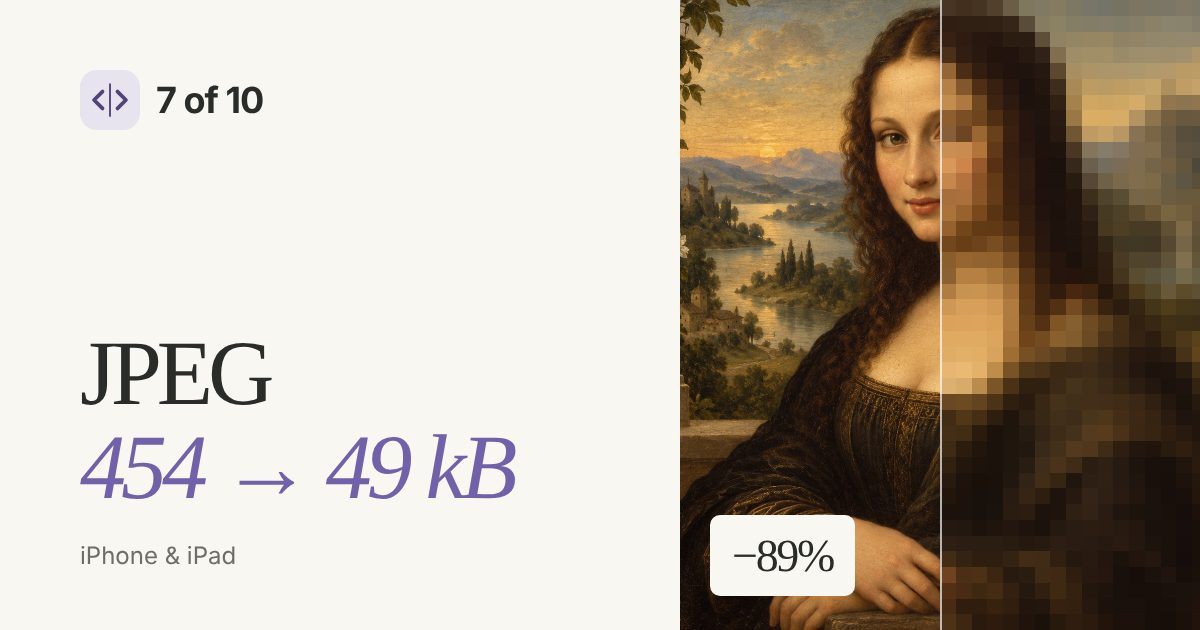
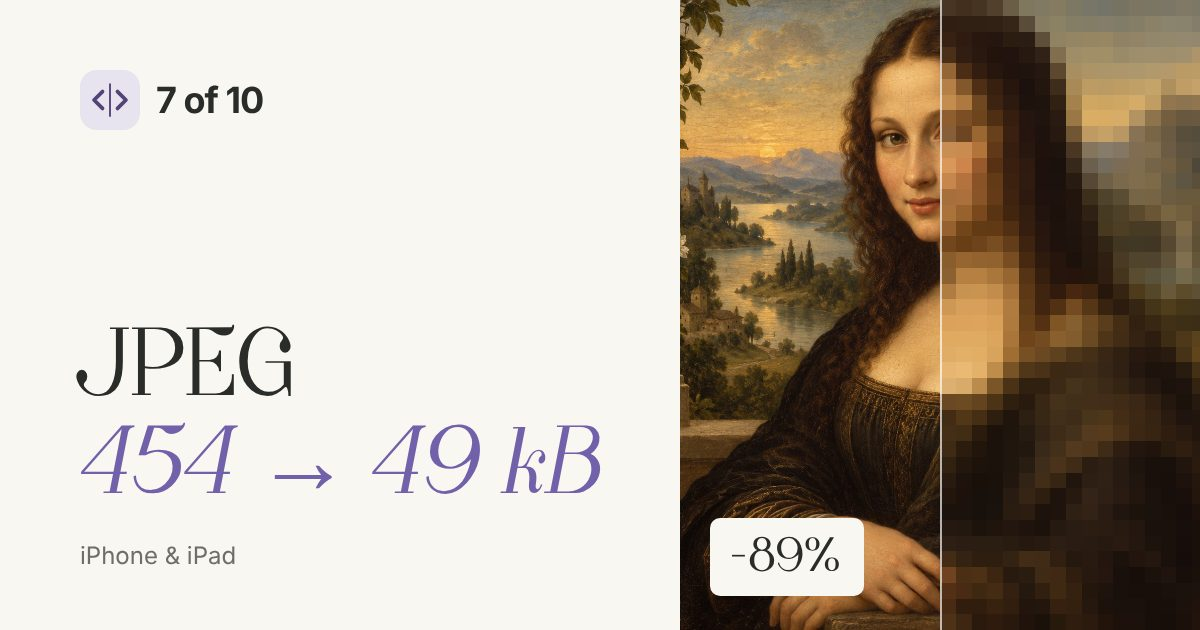
Set headings in the Gatchina typeface
- Add Latin + Cyrillic WOFF2 subsets of Gatchina Regular and Italic (55 kB), preloaded
- Loosen heading letter-spacing tuned for Georgia; keep Georgia as fallback
- Credit the author with a CC BY 4.0 link in the footer and ship the license text
- Re-render the link-preview card in the new face

Claude-Session: https://claude.ai/code/session_01QES1SuRAxCiDZNAsVGr97x

Changed region(s): [[0.0617, 0.5127, 0.5242, 0.8143], [0.5858, 0.8143, 0.74, 0.9349]]

diff --git a/website/7of10/landing.css b/website/7of10/landing.css
@@ -1,5 +1,7 @@
-:root{color-scheme:light;--paper:#f8f7f2;--ink:#292c28;--muted:#6c6f67;--line:#dedfd5;--purple:#7161aa;--serif:Georgia,'Times New Roman',serif;--sans:-apple-system,BlinkMacSystemFont,'Segoe UI',sans-serif}
-*{box-sizing:border-box}html{scroll-behavior:smooth;scroll-padding-top:32px}body{margin:0;background:var(--paper);color:var(--ink);font:16px/1.6 var(--sans);-webkit-font-smoothing:antialiased}a{color:inherit;text-decoration:none}button,input{font:inherit}button,a,input,summary{-webkit-tap-highlight-color:transparent}button{color:inherit;cursor:pointer}button:focus-visible,a:focus-visible,input:focus-visible,summary:focus-visible{outline:3px solid var(--purple);outline-offset:5px}button{border:0}img{display:block;max-width:100%}h1,h2,h3,p,figure{margin:0}h1,h2{font-family:var(--serif);font-weight:400;letter-spacing:-.055em}h2{font-size:clamp(40px,4.6vw,62px);line-height:1.08}h1 em,h2 em{font-weight:400;color:var(--purple)}[hidden]{display:none!important}.wrap{width:min(1200px,calc(100% - 96px));margin-inline:auto}.skip-link{position:fixed;z-index:20;top:8px;left:8px;background:var(--ink);color:white;padding:12px;transform:translateY(-160%)}.skip-link:focus{transform:none}.header{height:108px;display:flex;align-items:center;border-bottom:1px solid var(--line);gap:32px}.brand{display:inline-flex;align-items:center;gap:10px;font-size:23px;font-weight:650;letter-spacing:-1px;white-space:nowrap}.brand-icon{width:39px;height:39px;border-radius:12px;background:#e7e3ef;display:inline-flex;align-items:center;justify-content:center;gap:1px;font:30px/1 var(--sans);color:#514477;flex-shrink:0}.brand-icon i{width:1px;height:22px;background:#9b90b3;margin:0 1px}.brand-dot{font-size:10px;align-self:flex-start;padding-top:4px;margin-left:-7px}.nav{display:flex;gap:33px;margin-left:auto;font-size:13px}.nav a:hover,.footer a:hover{color:var(--purple)}.language{display:flex;gap:4px;align-items:center;font-size:12px;margin-left:40px;letter-spacing:.06em}.language button{background:none;padding:10px 6px;min-width:36px;min-height:40px;border-radius:6px;color:var(--muted)}.language button[aria-pressed=true]{color:var(--ink);font-weight:750}.language>span{color:#c3c4ba}.hero{padding:72px 0 58px;display:grid;grid-template-columns:1fr 1fr;gap:64px;align-items:center}.eyebrow{font-size:11px;font-weight:650;letter-spacing:.14em;display:flex;align-items:center;gap:9px}.tiny-dot{width:6px;height:6px;border-radius:50%;background:var(--purple);display:inline-block;flex-shrink:0}.hero h1{font-size:clamp(58px,6.4vw,88px);line-height:1.02;margin:27px 0 27px}.hero-description{color:var(--muted);font-size:15px;line-height:1.8;max-width:360px}.hero-actions{display:flex;flex-direction:column;align-items:flex-start;gap:13px;margin-top:29px}.button{display:inline-flex;align-items:center;justify-content:space-between;gap:30px;border-radius:6px;padding:15px 20px;font-size:14px;font-weight:550;transition:background .2s,transform .2s}.button-dark{background:var(--ink);color:white}.button-dark:hover{background:#49423d;transform:translateY(-2px)}.button span:last-child{font-size:20px;line-height:1}.availability{display:inline-flex;align-items:center;gap:8px;font-size:12px;color:var(--muted)}.hero-footnote{display:flex;gap:7px;align-items:center;font-size:12px;color:var(--muted);margin-top:25px}.hero-footnote svg{width:16px;height:16px;stroke:currentColor;stroke-width:1.3}.hero-demo{min-width:0}.demo-heading{display:flex;justify-content:space-between;font-size:10px;letter-spacing:.13em;margin-bottom:14px;color:var(--muted)}.comparison{position:relative;aspect-ratio:1;isolation:isolate;background:#c4ae84;border-radius:9px}.comparison>img{width:100%;height:100%;object-fit:cover;border-radius:9px}.demo-compressed{position:absolute;inset:0;clip-path:inset(0 0 0 var(--split));image-rendering:auto}.image-label{position:absolute;top:17px;display:flex;flex-direction:column;gap:0;color:white;background:#28261d70;border:1px solid #ffffff40;padding:6px 13px;border-radius:6px;-webkit-backdrop-filter:blur(12px);backdrop-filter:blur(12px);pointer-events:none;font-size:10px;letter-spacing:.04em}.image-label strong{font:12px/1.6 ui-monospace,SFMono-Regular,monospace}.image-label-original{left:17px}.image-label-result{right:17px}.comparison-divider{position:absolute;left:var(--split);top:0;bottom:0;width:1.5px;background:#fff9;transform:translateX(-50%);pointer-events:none}.comparison-divider>span{position:absolute;top:50%;left:50%;transform:translate(-50%,-50%);width:45px;height:45px;background:#f7f1e4e8;box-shadow:0 2px 16px #0002;border:1px solid #fffc;border-radius:50%;display:grid;place-items:center;font:24px var(--sans);color:#4a3d24;white-space:pre}.comparison input{position:absolute;inset:0;width:100%;height:100%;margin:0;appearance:none;-webkit-appearance:none;background:transparent;cursor:ew-resize;border-radius:9px;touch-action:pan-y}.comparison input::-webkit-slider-thumb{appearance:none;-webkit-appearance:none;width:1px;height:44px;background:transparent}.comparison input::-moz-range-thumb{width:1px;height:44px;background:transparent;border:0}.comparison input:focus-visible{outline-offset:6px}.saving{position:absolute;left:-23px;bottom:25px;background:var(--paper);border:1px solid var(--line);border-radius:6px;box-shadow:0 6px 20px #292c2812;padding:13px 19px;display:grid;grid-template-columns:auto auto;align-items:center;gap:0 10px;pointer-events:none}.saving-arrow{font-size:27px;color:var(--purple);grid-row:span 2}.saving strong{font:30px/1.05 var(--serif);letter-spacing:-.05em}.saving>span:last-child{font-size:11px;color:var(--muted)}.demo-controls{display:flex;align-items:center;justify-content:space-between;gap:12px;margin-top:18px}.presets{display:flex;background:#eae9e2;padding:3px;border-radius:5px;gap:2px}.presets button{font-size:12px;background:none;border-radius:3px;padding:8px 12px;min-height:36px;transition:background .2s}.presets button[aria-pressed=true]{background:var(--paper);box-shadow:0 1px 4px #292c2810}.demo-hint{font-size:11px;color:var(--muted);white-space:nowrap}.demo-note{font-size:11px;color:var(--muted);margin-top:13px;min-height:29px;line-height:1.6}.benefit-strip{display:grid;grid-template-columns:repeat(3,1fr);border-block:1px solid var(--line);padding-block:23px;gap:25px}.benefit-strip>span{display:flex;align-items:center;justify-content:center;gap:14px;font-size:13px}.benefit-strip>span+span{border-left:1px solid var(--line)}.benefit-strip i{font-style:normal;color:var(--purple);font-size:23px}.section{padding-block:100px}.section-intro{max-width:700px}.section-intro h2{margin-top:23px}.section-intro>p:last-child:not(.eyebrow){margin-top:22px;color:var(--muted);font-size:15px;max-width:450px;line-height:1.8}.controls-layout{display:grid;grid-template-columns:1fr 1fr;gap:95px;margin-top:47px;align-items:center}.app-stage{height:590px;border-radius:10px;background:#eae9e1;position:relative;overflow:hidden;display:flex;justify-content:flex-end;padding:39px 35px 0}.app-stage>img{width:254px;height:auto;align-self:flex-start;border:5px solid #fafaf9;border-radius:39px;box-shadow:0 24px 40px #31332522;position:relative;transform:rotate(5deg)}.stage-word{position:absolute;left:31px;top:53px;font:64px/.95 var(--serif);letter-spacing:-.065em;color:#7e816d}.stage-word em{font-weight:400}.stage-caption{position:absolute;bottom:20px;left:27px;font-size:10px;letter-spacing:.13em;color:#646953;background:#eae9e1dd;padding:4px 8px;border-radius:3px}.control-list article{display:flex;gap:22px;padding:30px 0;border-bottom:1px solid var(--line)}.control-list article:first-child{padding-top:0}.control-list article:last-child{border:0;padding-bottom:0}.control-number{font:11px ui-monospace,monospace;color:var(--purple);padding-top:6px}.control-list h3,.feature-pair h3{font-size:22px;line-height:1.3;font-weight:550;letter-spacing:-.04em}.control-list p{color:var(--muted);font-size:14px;line-height:1.8;margin-top:12px;max-width:315px}.control-example{display:block;font:11px ui-monospace,monospace;margin-top:18px;color:#525848}.control-example span{padding:0 11px;color:#abad9d}.quality-line{position:relative;height:3px;margin-top:24px;background:#dedfd5}.quality-line span{position:absolute;left:0;top:0;height:3px;width:72%;background:var(--purple)}.quality-line i{position:absolute;width:12px;height:12px;border-radius:50%;background:var(--purple);top:50%;left:72%;transform:translate(-50%,-50%)}.quality-labels{display:flex;justify-content:space-between;font-size:11px;color:var(--muted);margin-top:10px}.detail-section{background:#292f29;color:#f4f3e9;padding:78px 0}.detail-layout{display:grid;grid-template-columns:1fr 1fr;align-items:center;gap:110px}.detail-copy h2{margin:24px 0}.detail-copy h2 em{color:#d4c3ea}.detail-copy>p:not(.eyebrow){font-size:14px;line-height:1.85;color:#bdc5b9;max-width:360px}.detail-copy .eyebrow{color:#c0c9b7}.detail-note{display:block;font-size:13px;margin-top:27px;color:#e4ddcc}.detail-crop{position:relative;width:100%;aspect-ratio:1;border-radius:9px;overflow:hidden}.detail-crop img{position:absolute;width:100%;height:auto;max-width:none;top:-62.8%}.detail-figure figcaption{color:#b9c2b5;font-size:12px;text-align:center;margin-top:14px}.feature-pair{display:grid;grid-template-columns:1fr 1fr;gap:24px;margin-top:42px}.feature-pair article{border-radius:10px;overflow:hidden;padding:33px 36px 0;min-width:0}.shortcut-card{background:#eeedf4;height:546px;position:relative}.metadata-card{background:#eeeede}.feature-symbol{display:block;font-size:25px;margin-bottom:17px;color:var(--purple)}.feature-pair p{font-size:14px;line-height:1.8;color:var(--muted);margin-top:14px;max-width:400px}.shortcut-image{height:251px;overflow:hidden;margin:27px 8px 0;border-radius:24px 24px 0 0;box-shadow:0 8px 30px #322a4710}.shortcut-image img{width:100%;height:auto;transform:translateY(-14.7%)}.metadata-illustration{margin-top:35px;border:1px solid #d3d4c6;border-radius:7px;padding:19px;background:#f8f8f1;font-size:12px;transform:rotate(-2deg)}.metadata-illustration>div:first-child{display:flex;justify-content:space-between;font:11px ui-monospace,monospace;color:#72776a;padding-bottom:12px}.metadata-illustration p{display:flex;justify-content:space-between;border-top:1px solid #e4e5da;margin:0;padding:9px 0;font-size:11px}.metadata-illustration p span:last-child{font-family:ui-monospace,monospace;color:var(--ink)}.metadata-remove{display:flex;justify-content:space-between;align-items:center;border-top:1px solid #e4e5da;padding-top:15px;font-size:11px;color:#524d68;gap:9px}.metadata-remove strong{font-size:9px;background:#e7e1f0;padding:3px 6px;border-radius:3px}.feature-pair .pro-note{font-size:12px;margin:20px 0 24px}.privacy-section{display:flex;flex-direction:column;align-items:center;text-align:center;padding:18px 0 94px;border-bottom:1px solid var(--line)}.privacy-lock{width:39px;height:45px;stroke:var(--purple);stroke-width:1.4;margin-bottom:23px}.privacy-section h2{margin:22px 0}.privacy-section>p:not(.eyebrow){max-width:495px;color:var(--muted);font-size:14px;line-height:1.9}.text-link{display:inline-flex;align-items:center;gap:12px;font-size:14px;color:var(--purple);margin-top:24px}.text-link:hover{text-decoration:underline;text-underline-offset:5px}.faq-section{display:grid;grid-template-columns:.85fr 1.15fr;gap:75px;padding-block:80px}.faq-section h2{font-size:35px;line-height:1.2}.faq-section details{border-bottom:1px solid var(--line);padding:0 0 18px;margin-bottom:18px}.faq-section summary{font-size:16px;line-height:1.5;cursor:pointer;padding-block:4px;list-style:none;display:flex;justify-content:space-between;gap:20px}.faq-section summary::-webkit-details-marker{display:none}.faq-section summary::after{content:'+';color:var(--purple);font-size:18px;line-height:1.2}.faq-section details[open] summary::after{content:'−'}.faq-section details p{font-size:14px;max-width:560px;color:var(--muted);line-height:1.8;padding-top:16px}.closing{text-align:center;display:flex;align-items:center;flex-direction:column;background:#eae6f1;border-radius:11px;padding:54px 20px;margin-bottom:75px}.closing .brand-icon{background:#ded5eb;width:48px;height:48px;border-radius:14px;margin-bottom:25px}.closing h2{font-size:clamp(33px,4.2vw,54px)}.coming-soon{display:flex;align-items:center;gap:9px;font-size:14px;margin:25px 0 5px}.platforms{font-size:12px;color:var(--muted)}.footer{display:flex;gap:30px;align-items:center;min-height:90px;border-top:1px solid var(--line)}.footer>.brand{font-size:19px}.footer>span{font-size:12px;color:var(--muted)}.footer>div{margin-left:auto;display:flex;align-items:center;gap:23px;font-size:12px;color:var(--muted)}.footer>div>a:last-child{font-size:21px;margin-left:15px}
+@font-face{font-family:Gatchina;src:url(assets/fonts/gatchina-regular.woff2) format('woff2');font-weight:400;font-style:normal;font-display:swap}
+@font-face{font-family:Gatchina;src:url(assets/fonts/gatchina-italic.woff2) format('woff2');font-weight:400;font-style:italic;font-display:swap}
+:root{color-scheme:light;--paper:#f8f7f2;--ink:#292c28;--muted:#6c6f67;--line:#dedfd5;--purple:#7161aa;--serif:Gatchina,Georgia,'Times New Roman',serif;--sans:-apple-system,BlinkMacSystemFont,'Segoe UI',sans-serif}
+*{box-sizing:border-box}html{scroll-behavior:smooth;scroll-padding-top:32px}body{margin:0;background:var(--paper);color:var(--ink);font:16px/1.6 var(--sans);-webkit-font-smoothing:antialiased}a{color:inherit;text-decoration:none}button,input{font:inherit}button,a,input,summary{-webkit-tap-highlight-color:transparent}button{color:inherit;cursor:pointer}button:focus-visible,a:focus-visible,input:focus-visible,summary:focus-visible{outline:3px solid var(--purple);outline-offset:5px}button{border:0}img{display:block;max-width:100%}h1,h2,h3,p,figure{margin:0}h1,h2{font-family:var(--serif);font-weight:400;letter-spacing:-.02em}h2{font-size:clamp(40px,4.6vw,62px);line-height:1.08}h1 em,h2 em{font-weight:400;color:var(--purple)}[hidden]{display:none!important}.wrap{width:min(1200px,calc(100% - 96px));margin-inline:auto}.skip-link{position:fixed;z-index:20;top:8px;left:8px;background:var(--ink);color:white;padding:12px;transform:translateY(-160%)}.skip-link:focus{transform:none}.header{height:108px;display:flex;align-items:center;border-bottom:1px solid var(--line);gap:32px}.brand{display:inline-flex;align-items:center;gap:10px;font-size:23px;font-weight:650;letter-spacing:-1px;white-space:nowrap}.brand-icon{width:39px;height:39px;border-radius:12px;background:#e7e3ef;display:inline-flex;align-items:center;justify-content:center;gap:1px;font:30px/1 var(--sans);color:#514477;flex-shrink:0}.brand-icon i{width:1px;height:22px;background:#9b90b3;margin:0 1px}.brand-dot{font-size:10px;align-self:flex-start;padding-top:4px;margin-left:-7px}.nav{display:flex;gap:33px;margin-left:auto;font-size:13px}.nav a:hover,.footer a:hover{color:var(--purple)}.language{display:flex;gap:4px;align-items:center;font-size:12px;margin-left:40px;letter-spacing:.06em}.language button{background:none;padding:10px 6px;min-width:36px;min-height:40px;border-radius:6px;color:var(--muted)}.language button[aria-pressed=true]{color:var(--ink);font-weight:750}.language>span{color:#c3c4ba}.hero{padding:72px 0 58px;display:grid;grid-template-columns:1fr 1fr;gap:64px;align-items:center}.eyebrow{font-size:11px;font-weight:650;letter-spacing:.14em;display:flex;align-items:center;gap:9px}.tiny-dot{width:6px;height:6px;border-radius:50%;background:var(--purple);display:inline-block;flex-shrink:0}.hero h1{font-size:clamp(58px,6.4vw,88px);line-height:1.02;margin:27px 0 27px}.hero-description{color:var(--muted);font-size:15px;line-height:1.8;max-width:360px}.hero-actions{display:flex;flex-direction:column;align-items:flex-start;gap:13px;margin-top:29px}.button{display:inline-flex;align-items:center;justify-content:space-between;gap:30px;border-radius:6px;padding:15px 20px;font-size:14px;font-weight:550;transition:background .2s,transform .2s}.button-dark{background:var(--ink);color:white}.button-dark:hover{background:#49423d;transform:translateY(-2px)}.button span:last-child{font-size:20px;line-height:1}.availability{display:inline-flex;align-items:center;gap:8px;font-size:12px;color:var(--muted)}.hero-footnote{display:flex;gap:7px;align-items:center;font-size:12px;color:var(--muted);margin-top:25px}.hero-footnote svg{width:16px;height:16px;stroke:currentColor;stroke-width:1.3}.hero-demo{min-width:0}.demo-heading{display:flex;justify-content:space-between;font-size:10px;letter-spacing:.13em;margin-bottom:14px;color:var(--muted)}.comparison{position:relative;aspect-ratio:1;isolation:isolate;background:#c4ae84;border-radius:9px}.comparison>img{width:100%;height:100%;object-fit:cover;border-radius:9px}.demo-compressed{position:absolute;inset:0;clip-path:inset(0 0 0 var(--split));image-rendering:auto}.image-label{position:absolute;top:17px;display:flex;flex-direction:column;gap:0;color:white;background:#28261d70;border:1px solid #ffffff40;padding:6px 13px;border-radius:6px;-webkit-backdrop-filter:blur(12px);backdrop-filter:blur(12px);pointer-events:none;font-size:10px;letter-spacing:.04em}.image-label strong{font:12px/1.6 ui-monospace,SFMono-Regular,monospace}.image-label-original{left:17px}.image-label-result{right:17px}.comparison-divider{position:absolute;left:var(--split);top:0;bottom:0;width:1.5px;background:#fff9;transform:translateX(-50%);pointer-events:none}.comparison-divider>span{position:absolute;top:50%;left:50%;transform:translate(-50%,-50%);width:45px;height:45px;background:#f7f1e4e8;box-shadow:0 2px 16px #0002;border:1px solid #fffc;border-radius:50%;display:grid;place-items:center;font:24px var(--sans);color:#4a3d24;white-space:pre}.comparison input{position:absolute;inset:0;width:100%;height:100%;margin:0;appearance:none;-webkit-appearance:none;background:transparent;cursor:ew-resize;border-radius:9px;touch-action:pan-y}.comparison input::-webkit-slider-thumb{appearance:none;-webkit-appearance:none;width:1px;height:44px;background:transparent}.comparison input::-moz-range-thumb{width:1px;height:44px;background:transparent;border:0}.comparison input:focus-visible{outline-offset:6px}.saving{position:absolute;left:-23px;bottom:25px;background:var(--paper);border:1px solid var(--line);border-radius:6px;box-shadow:0 6px 20px #292c2812;padding:13px 19px;display:grid;grid-template-columns:auto auto;align-items:center;gap:0 10px;pointer-events:none}.saving-arrow{font-size:27px;color:var(--purple);grid-row:span 2}.saving strong{font:32px/1.05 var(--serif);letter-spacing:-.02em}.saving>span:last-child{font-size:11px;color:var(--muted)}.demo-controls{display:flex;align-items:center;justify-content:space-between;gap:12px;margin-top:18px}.presets{display:flex;background:#eae9e2;padding:3px;border-radius:5px;gap:2px}.presets button{font-size:12px;background:none;border-radius:3px;padding:8px 12px;min-height:36px;transition:background .2s}.presets button[aria-pressed=true]{background:var(--paper);box-shadow:0 1px 4px #292c2810}.demo-hint{font-size:11px;color:var(--muted);white-space:nowrap}.demo-note{font-size:11px;color:var(--muted);margin-top:13px;min-height:29px;line-height:1.6}.benefit-strip{display:grid;grid-template-columns:repeat(3,1fr);border-block:1px solid var(--line);padding-block:23px;gap:25px}.benefit-strip>span{display:flex;align-items:center;justify-content:center;gap:14px;font-size:13px}.benefit-strip>span+span{border-left:1px solid var(--line)}.benefit-strip i{font-style:normal;color:var(--purple);font-size:23px}.section{padding-block:100px}.section-intro{max-width:700px}.section-intro h2{margin-top:23px}.section-intro>p:last-child:not(.eyebrow){margin-top:22px;color:var(--muted);font-size:15px;max-width:450px;line-height:1.8}.controls-layout{display:grid;grid-template-columns:1fr 1fr;gap:95px;margin-top:47px;align-items:center}.app-stage{height:590px;border-radius:10px;background:#eae9e1;position:relative;overflow:hidden;display:flex;justify-content:flex-end;padding:39px 35px 0}.app-stage>img{width:254px;height:auto;align-self:flex-start;border:5px solid #fafaf9;border-radius:39px;box-shadow:0 24px 40px #31332522;position:relative;transform:rotate(5deg)}.stage-word{position:absolute;left:31px;top:53px;font:64px/.95 var(--serif);letter-spacing:-.03em;color:#7e816d}.stage-word em{font-weight:400}.stage-caption{position:absolute;bottom:20px;left:27px;font-size:10px;letter-spacing:.13em;color:#646953;background:#eae9e1dd;padding:4px 8px;border-radius:3px}.control-list article{display:flex;gap:22px;padding:30px 0;border-bottom:1px solid var(--line)}.control-list article:first-child{padding-top:0}.control-list article:last-child{border:0;padding-bottom:0}.control-number{font:11px ui-monospace,monospace;color:var(--purple);padding-top:6px}.control-list h3,.feature-pair h3{font-size:22px;line-height:1.3;font-weight:550;letter-spacing:-.04em}.control-list p{color:var(--muted);font-size:14px;line-height:1.8;margin-top:12px;max-width:315px}.control-example{display:block;font:11px ui-monospace,monospace;margin-top:18px;color:#525848}.control-example span{padding:0 11px;color:#abad9d}.quality-line{position:relative;height:3px;margin-top:24px;background:#dedfd5}.quality-line span{position:absolute;left:0;top:0;height:3px;width:72%;background:var(--purple)}.quality-line i{position:absolute;width:12px;height:12px;border-radius:50%;background:var(--purple);top:50%;left:72%;transform:translate(-50%,-50%)}.quality-labels{display:flex;justify-content:space-between;font-size:11px;color:var(--muted);margin-top:10px}.detail-section{background:#292f29;color:#f4f3e9;padding:78px 0}.detail-layout{display:grid;grid-template-columns:1fr 1fr;align-items:center;gap:110px}.detail-copy h2{margin:24px 0}.detail-copy h2 em{color:#d4c3ea}.detail-copy>p:not(.eyebrow){font-size:14px;line-height:1.85;color:#bdc5b9;max-width:360px}.detail-copy .eyebrow{color:#c0c9b7}.detail-note{display:block;font-size:13px;margin-top:27px;color:#e4ddcc}.detail-crop{position:relative;width:100%;aspect-ratio:1;border-radius:9px;overflow:hidden}.detail-crop img{position:absolute;width:100%;height:auto;max-width:none;top:-62.8%}.detail-figure figcaption{color:#b9c2b5;font-size:12px;text-align:center;margin-top:14px}.feature-pair{display:grid;grid-template-columns:1fr 1fr;gap:24px;margin-top:42px}.feature-pair article{border-radius:10px;overflow:hidden;padding:33px 36px 0;min-width:0}.shortcut-card{background:#eeedf4;height:546px;position:relative}.metadata-card{background:#eeeede}.feature-symbol{display:block;font-size:25px;margin-bottom:17px;color:var(--purple)}.feature-pair p{font-size:14px;line-height:1.8;color:var(--muted);margin-top:14px;max-width:400px}.shortcut-image{height:251px;overflow:hidden;margin:27px 8px 0;border-radius:24px 24px 0 0;box-shadow:0 8px 30px #322a4710}.shortcut-image img{width:100%;height:auto;transform:translateY(-14.7%)}.metadata-illustration{margin-top:35px;border:1px solid #d3d4c6;border-radius:7px;padding:19px;background:#f8f8f1;font-size:12px;transform:rotate(-2deg)}.metadata-illustration>div:first-child{display:flex;justify-content:space-between;font:11px ui-monospace,monospace;color:#72776a;padding-bottom:12px}.metadata-illustration p{display:flex;justify-content:space-between;border-top:1px solid #e4e5da;margin:0;padding:9px 0;font-size:11px}.metadata-illustration p span:last-child{font-family:ui-monospace,monospace;color:var(--ink)}.metadata-remove{display:flex;justify-content:space-between;align-items:center;border-top:1px solid #e4e5da;padding-top:15px;font-size:11px;color:#524d68;gap:9px}.metadata-remove strong{font-size:9px;background:#e7e1f0;padding:3px 6px;border-radius:3px}.feature-pair .pro-note{font-size:12px;margin:20px 0 24px}.privacy-section{display:flex;flex-direction:column;align-items:center;text-align:center;padding:18px 0 94px;border-bottom:1px solid var(--line)}.privacy-lock{width:39px;height:45px;stroke:var(--purple);stroke-width:1.4;margin-bottom:23px}.privacy-section h2{margin:22px 0}.privacy-section>p:not(.eyebrow){max-width:495px;color:var(--muted);font-size:14px;line-height:1.9}.text-link{display:inline-flex;align-items:center;gap:12px;font-size:14px;color:var(--purple);margin-top:24px}.text-link:hover{text-decoration:underline;text-underline-offset:5px}.faq-section{display:grid;grid-template-columns:.85fr 1.15fr;gap:75px;padding-block:80px}.faq-section h2{font-size:35px;line-height:1.2}.faq-section details{border-bottom:1px solid var(--line);padding:0 0 18px;margin-bottom:18px}.faq-section summary{font-size:16px;line-height:1.5;cursor:pointer;padding-block:4px;list-style:none;display:flex;justify-content:space-between;gap:20px}.faq-section summary::-webkit-details-marker{display:none}.faq-section summary::after{content:'+';color:var(--purple);font-size:18px;line-height:1.2}.faq-section details[open] summary::after{content:'−'}.faq-section details p{font-size:14px;max-width:560px;color:var(--muted);line-height:1.8;padding-top:16px}.closing{text-align:center;display:flex;align-items:center;flex-direction:column;background:#eae6f1;border-radius:11px;padding:54px 20px;margin-bottom:75px}.closing .brand-icon{background:#ded5eb;width:48px;height:48px;border-radius:14px;margin-bottom:25px}.closing h2{font-size:clamp(33px,4.2vw,54px)}.coming-soon{display:flex;align-items:center;gap:9px;font-size:14px;margin:25px 0 5px}.platforms{font-size:12px;color:var(--muted)}.footer{display:flex;gap:30px;align-items:center;min-height:90px;border-top:1px solid var(--line)}.footer>.brand{font-size:19px}.footer>span{font-size:12px;color:var(--muted)}.footer>div{margin-left:auto;display:flex;align-items:center;gap:23px;font-size:12px;color:var(--muted)}.footer>div>a:last-child{font-size:21px;margin-left:15px}
 @media(min-width:1500px){.hero{gap:85px;padding-block:85px}.hero-demo{max-width:570px}}
 @media(max-width:1100px){.wrap{width:calc(100% - 64px)}.hero{gap:38px}.hero h1{font-size:clamp(52px,6.7vw,75px)}.eyebrow{font-size:10px}.demo-controls{flex-wrap:wrap}.controls-layout{gap:48px}.app-stage{padding-right:20px}.app-stage>img{width:235px}.stage-word{font-size:55px;left:20px}.detail-layout{gap:60px}.feature-pair article{padding-inline:27px}.shortcut-card{height:565px}.faq-section{gap:40px}}
 @media(max-width:760px){.wrap{width:calc(100% - 40px)}.header{height:82px;gap:16px}.brand{font-size:21px}.brand-icon{width:33px;height:33px;font-size:26px;border-radius:9px}.brand-dot{display:none}.nav{gap:18px;font-size:11px}.nav a:first-child{display:none}.language{margin-left:8px;gap:7px}.hero{grid-template-columns:1fr;padding:48px 0 37px;gap:39px}.hero-copy{max-width:560px}.hero h1{font-size:clamp(59px,11vw,82px);margin-block:23px}.hero h1 br:last-of-type{display:none}.hero h1 em:last-child::before{content:' '}.hero-description{max-width:420px;font-size:14px}.hero-actions{margin-top:24px}.hero-footnote{margin-top:20px}.hero-demo{width:100%;max-width:560px;justify-self:center}.saving{left:12px;bottom:17px;padding:10px 14px}.saving strong{font-size:27px}.demo-controls{flex-wrap:wrap;gap:10px 12px}.demo-hint{font-size:11px}.presets button{padding:8px 10px;font-size:12px}.benefit-strip{padding-block:15px;gap:12px}.benefit-strip>span{flex-direction:column;gap:3px;text-align:center;font-size:11px;line-height:1.4}.benefit-strip i{font-size:20px}.section{padding-block:65px}.section-intro h2{margin-top:20px}.section-intro>p:last-child:not(.eyebrow){font-size:14px}.controls-layout{grid-template-columns:1fr;gap:36px;margin-top:30px}.app-stage{height:auto;justify-content:center;padding:184px 0 36px 40px}.app-stage>img{width:236px}.stage-word{font-size:56px;left:24px;top:28px}.stage-caption{top:150px;bottom:auto;left:24px;background:none;padding:0}.control-list article{gap:19px;padding:25px 0}.control-list p{max-width:100%}.control-list h3{font-size:21px}.detail-section{padding-block:55px}.detail-layout{grid-template-columns:1fr;gap:32px}.detail-copy h2{margin-block:20px}.detail-copy>p:not(.eyebrow){max-width:480px}.detail-figure{max-width:500px;width:100%;justify-self:center}.detail-note{margin-top:20px}.feature-pair{grid-template-columns:1fr;gap:20px;margin-top:30px}.feature-pair article{padding:27px 25px 0}.shortcut-card{height:490px}.shortcut-image{max-width:360px;margin-inline:auto}.metadata-card{padding-bottom:8px!important}.metadata-illustration{margin-top:25px}.privacy-section{padding-top:0;padding-bottom:60px}.faq-section{grid-template-columns:1fr;gap:30px;padding-block:55px}.faq-section h2{font-size:33px}.faq-section details{margin-bottom:18px}.closing{padding:40px 17px;margin-bottom:45px}.closing h2{font-size:clamp(29px,7.1vw,46px)}.footer{flex-wrap:wrap;gap:12px 20px;padding-block:25px}.footer>div{width:100%;margin-left:0;gap:20px}.footer>div>a:last-child{margin-left:auto}.footer>span{margin-left:auto}}
@@ -20,3 +22,4 @@
 @keyframes lang-fallback{to{opacity:1}}
 @media(max-width:760px){.availability{font-size:12px}.closing-actions{flex-direction:column;gap:16px}}
 @media(prefers-reduced-motion:reduce){html{scroll-behavior:auto}*,*::before,*::after{transition:none!important;animation:none!important}.js .reveal{opacity:1;transform:none}.lang-pending body>header,.lang-pending main,.lang-pending footer{opacity:1}}
+.footer{flex-wrap:wrap;padding-block:24px}.font-credit{flex-basis:100%;font-size:11px;color:var(--muted);margin:-8px 0 0}.font-credit a{text-decoration:underline;text-underline-offset:3px}

diff --git a/website/7of10/index.html b/website/7of10/index.html
@@ -25,6 +25,8 @@
   <link rel="icon" type="image/svg+xml" href="assets/favicon.svg">
   <link rel="apple-touch-icon" href="assets/apple-touch-icon.png">
   <link rel="preload" as="image" href="assets/mona-lisa.jpg" fetchpriority="high">
+  <link rel="preload" as="font" type="font/woff2" href="assets/fonts/gatchina-regular.woff2" crossorigin>
+  <link rel="preload" as="font" type="font/woff2" href="assets/fonts/gatchina-italic.woff2" crossorigin>
   <link rel="stylesheet" href="landing.css">
   <script>
     // Pick the language before first paint so English visitors don't see Russian copy flash.
@@ -92,6 +94,6 @@
     <section class="faq-section wrap" id="faq"><h2 data-ru="Кстати, о главном." data-en="A few good questions.">Кстати, о главном.</h2><div><details><summary data-ru="Качество фотографии изменится?" data-en="Will image quality change?">Качество фотографии изменится?</summary><p data-ru="JPEG использует сжатие с потерями. Чем меньше размер и ниже качество, тем заметнее изменения. Сравнение и лупа помогают выбрать подходящий баланс перед сохранением." data-en="JPEG uses lossy compression. Lower dimensions and quality can make changes more visible. The comparison and magnifier help you choose a balance before saving.">JPEG использует сжатие с потерями. Чем меньше размер и ниже качество, тем заметнее изменения. Сравнение и лупа помогают выбрать подходящий баланс перед сохранением.</p></details><details><summary data-ru="Размер файла будет точно таким, как я задам?" data-en="Will the file match my target size exactly?">Размер файла будет точно таким, как я задам?</summary><p data-ru="Целевой размер приблизительный. Результат зависит от содержимого фотографии, разрешения и выбранного качества JPEG. Фактический размер можно проверить до сохранения." data-en="The target is approximate. The result depends on the photo's content, dimensions, and JPEG quality. You can check the actual size before saving.">Целевой размер приблизительный. Результат зависит от содержимого фотографии, разрешения и выбранного качества JPEG. Фактический размер можно проверить до сохранения.</p></details><details><summary data-ru="Для чего нужна покупка Pro?" data-en="What does Pro unlock?">Для чего нужна покупка Pro?</summary><p data-ru="Сжатие, сравнение и сохранение доступны без Pro. Разовая покупка открывает удаление метаданных, в том числе через действие Shortcuts." data-en="Compression, comparison, and saving work without Pro. A one-time purchase unlocks metadata removal, including through the Shortcuts action.">Сжатие, сравнение и сохранение доступны без Pro. Разовая покупка открывает удаление метаданных, в том числе через действие Shortcuts.</p></details></div></section>
     <section class="closing wrap reveal"><span class="brand-icon" aria-hidden="true">‹<i></i>›</span><h2><span data-ru="Оставьте главное." data-en="Keep what matters.">Оставьте главное.</span><br><em data-ru="Уменьшите остальное." data-en="Make the rest lighter.">Уменьшите остальное.</em></h2><p class="coming-soon"><span class="tiny-dot"></span><span data-ru="Скоро в App Store" data-en="Coming to the App Store">Скоро в App Store</span></p><span class="platforms">iPhone & iPad</span><div class="closing-actions"><a class="button button-dark" href="#demo"><span data-ru="Попробовать сравнение" data-en="Try the comparison">Попробовать сравнение</span><span aria-hidden="true">↑</span></a><a class="text-link" href="support/"><span data-ru="Задать вопрос" data-en="Ask a question">Задать вопрос</span><span aria-hidden="true">↗</span></a></div></section>
   </main>
-  <footer class="footer wrap"><a class="brand" href="#top">7 of 10</a><span>© 2026 Egor Merkushev</span><div><a href="privacy/" data-ru="Конфиденциальность" data-en="Privacy">Конфиденциальность</a><a href="support/" data-ru="Поддержка" data-en="Support">Поддержка</a><a href="#top" aria-label="Наверх" data-label-ru="Наверх" data-label-en="Back to top">↑</a></div></footer>
+  <footer class="footer wrap"><a class="brand" href="#top">7 of 10</a><span>© 2026 Egor Merkushev</span><div><a href="privacy/" data-ru="Конфиденциальность" data-en="Privacy">Конфиденциальность</a><a href="support/" data-ru="Поддержка" data-en="Support">Поддержка</a><a href="#top" aria-label="Наверх" data-label-ru="Наверх" data-label-en="Back to top">↑</a></div><p class="font-credit"><span data-ru="Шрифт Gatchina — Дмитрий Антонов / Синяя Кривая," data-en="Gatchina typeface by Dimitri Antonov / Blue Curve Designstudio,">Шрифт Gatchina — Дмитрий Антонов / Синяя Кривая,</span> <a href="https://creativecommons.org/licenses/by/4.0/" rel="license noopener">CC BY 4.0</a></p></footer>
 </body>
 </html>

diff --git a/README.md b/README.md
@@ -40,6 +40,10 @@ parameter the page uses the visitor's last choice, then the browser language
 (Russian for ru/be/uk/kk, English otherwise). `assets/og-image.jpg` is the
 link-preview card; regenerate it if the hero headline changes.
 
+Headings use the Gatchina typeface by Dimitri Antonov / Blue Curve Designstudio
+(CC BY 4.0, credited in the footer). `assets/fonts/` holds Latin + Cyrillic
+WOFF2 subsets of the regular and italic styles made with `pyftsubset`.
+
 The interactive comparison encodes the supplied portrait to JPEG locally in the
 browser. Its file sizes and reduction percentages come from the actual source
 and generated blobs; they are a browser demonstration, not a benchmark of the
